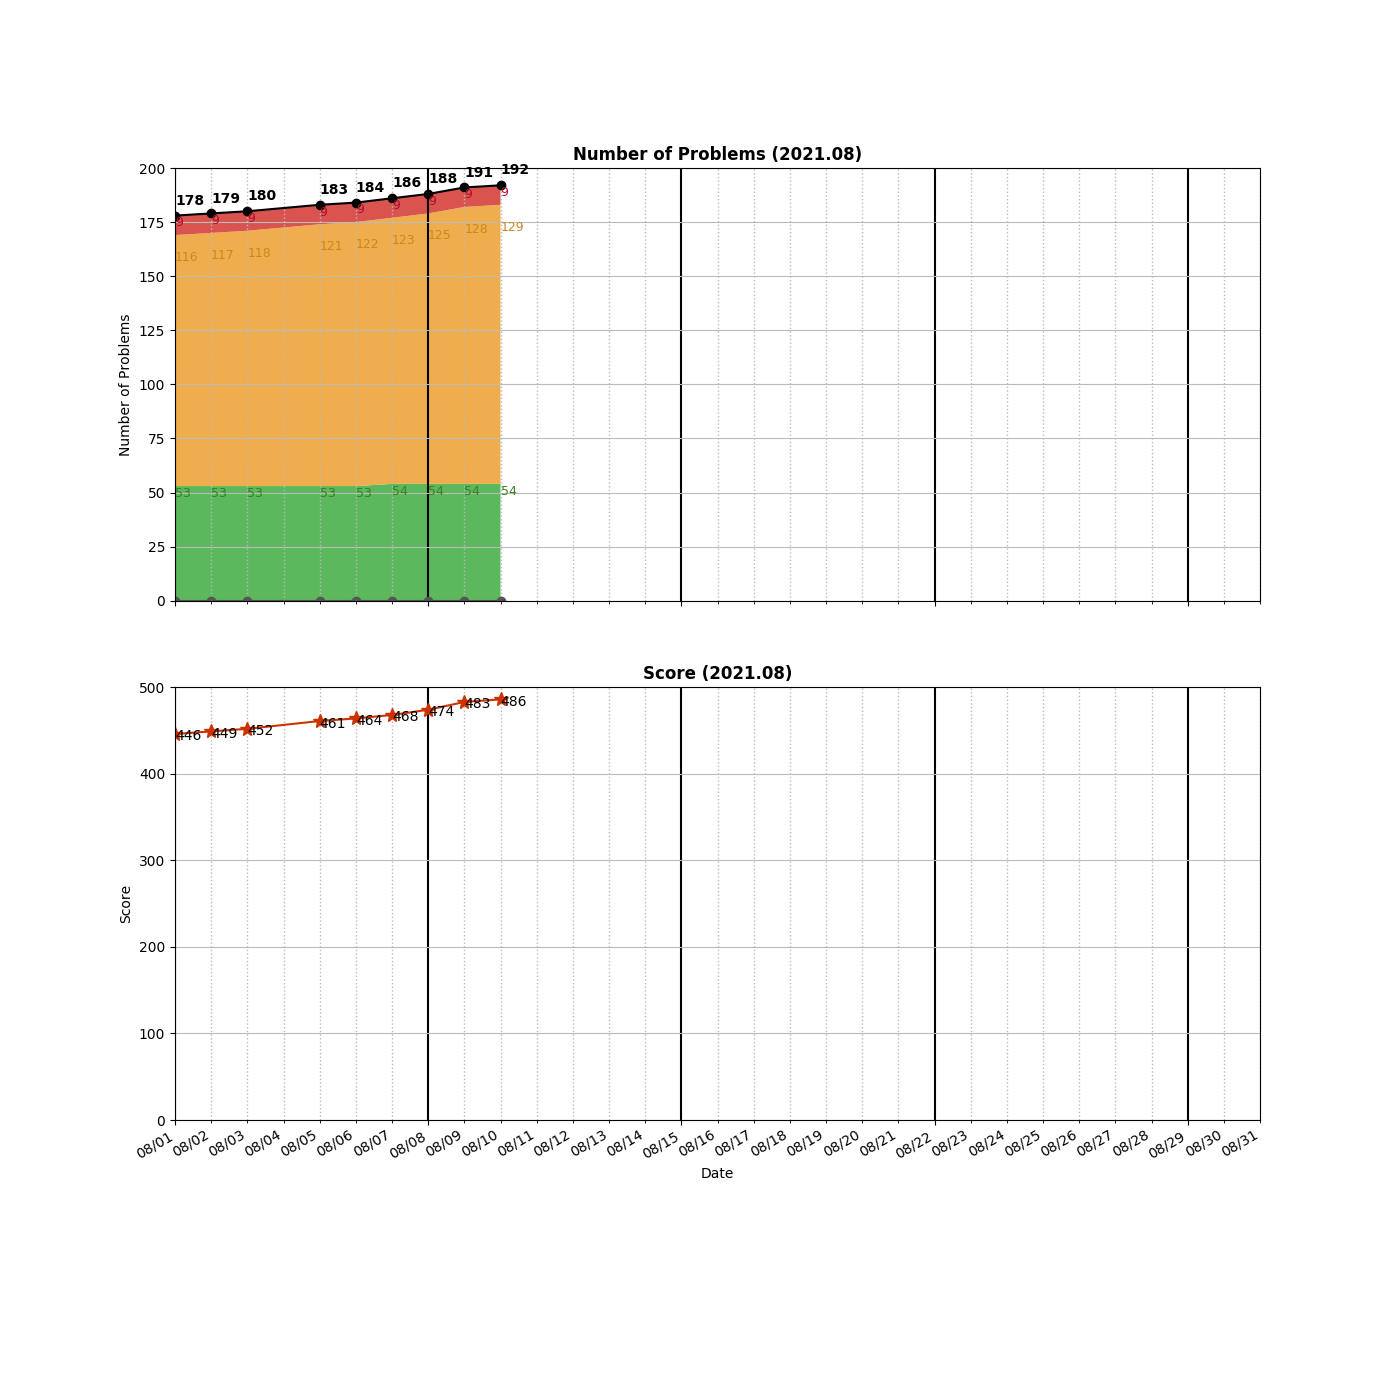
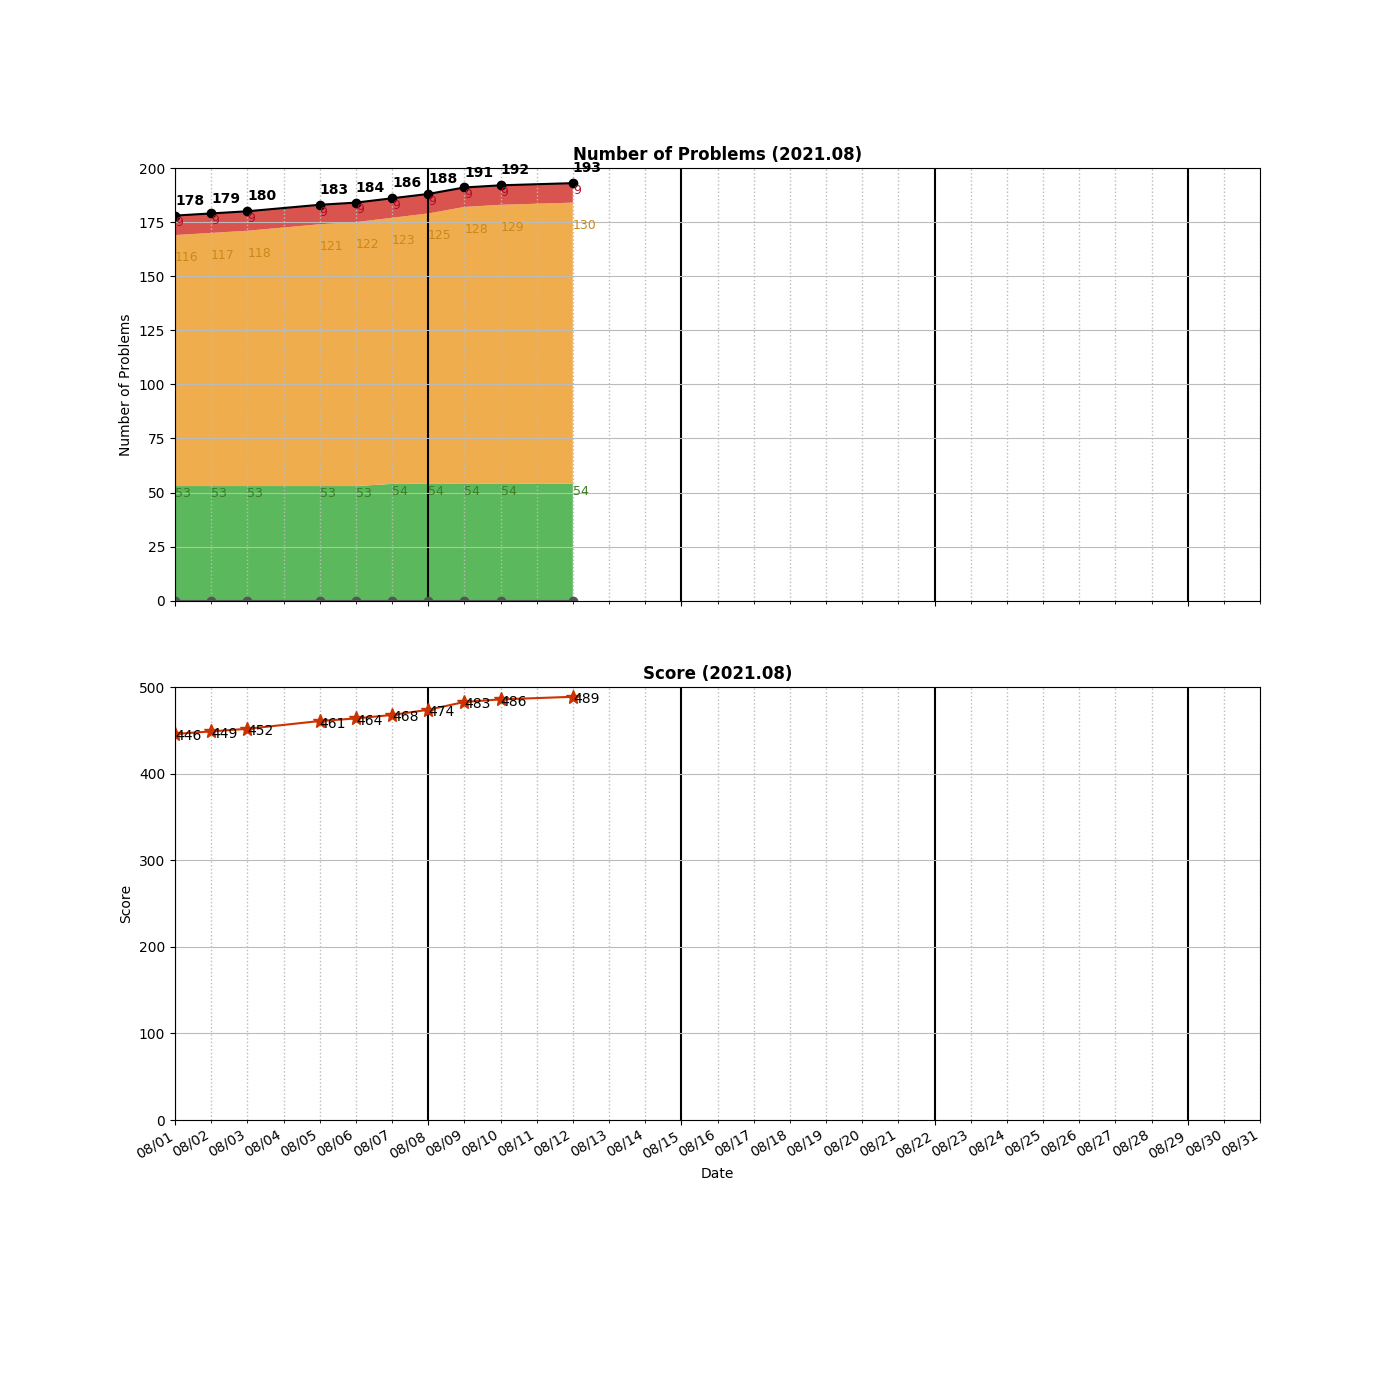
Added __0494__Target Sum.py

Changed region(s): [[0.3379, 0.1229, 0.43, 0.43], [0.3993, 0.4914, 0.43, 0.5221]]

diff --git a/algo/DP/__0494__Target Sum.py b/algo/DP/__0494__Target Sum.py
@@ -1,0 +1,38 @@
+class Solution:
+    #def findTargetSumWays(self, nums: List[int], target: int) -> int:
+        # numsum = sum(nums)
+        # maxVal = target + numsum 
+        # minVal = target - numsum
+        # val = target - minVal 
+        # valLength = numsum * 2 + 1 
+        # dp = [for i in ]
+        
+    def findTargetSumWays(self, nums: List[int], target: int) -> int:
+        self.total = 0
+        memo = {}
+        #a = self.helper(nums, -target + nums[0], 0, memo, "+" + str(nums[0]))
+        #b = self.helper(nums, -target - nums[0], 0, memo, "-" + str(nums[0]))
+        return self.helper(nums, -target, -1, memo)
+    
+    def helper(self, nums, target, idx, memo):
+        #print(target, idx, exp)
+        if idx == len(nums) - 1:
+            if target == 0:
+                #print(">> ", exp)
+                return 1 
+            else:
+                return 0
+        if idx >= len(nums):
+            return 0 
+        if (target, idx) in memo:
+            return memo[(target, idx)]
+    
+        count = 0
+        #for i in range(idx+1, len(nums)):
+        i = idx + 1 
+        #count += self.helper(nums, target + nums[i], i , memo, exp + "+" + str(nums[i]))
+        #count += self.helper(nums, target - nums[i], i , memo, exp + "-" + str(nums[i]))
+        count += self.helper(nums, target + nums[i], i , memo)
+        count += self.helper(nums, target - nums[i], i , memo)
+        memo[(target, idx)] = count
+        return count 

diff --git a/README.md b/README.md
@@ -168,6 +168,7 @@ algo
 │   ├── __0416__Partition\ Equal\ Subset\ Sum.py
 │   ├── __0437__Path\ Sum\ III.py
 │   ├── __0450__Delete\ Node\ in\ a\ BST.py
+│   ├── __0494__Target\ Sum.py
 │   ├── __0510__Inorder\ Successor\ in\ BST\ II.py
 │   ├── __0513__Find\ Bottom\ Left\ Tree\ Value.py
 │   ├── __0538__Convert\ BST\ to\ Greater\ Tree.py
@@ -219,7 +220,7 @@ algo
         ├── LinkedList.cpython-37.pyc
         └── UnrolledLinkedList.cpython-37.pyc
 
-21 directories, 197 files
+21 directories, 198 files
 
 =====================================
 ============= Local Repo ============
@@ -360,6 +361,7 @@ __0416__Partition Equal Subset Sum.py
 __0437__Path Sum III.py
 __0450__Delete Node in a BST.py
 __0459__Repeated Substring Pattern.py
+__0494__Target Sum.py
 __0510__Inorder Successor in BST II.py
 __0513__Find Bottom Left Tree Value.py
 __0515__Find Largest Value in Each Tree Row.py
@@ -413,7 +415,7 @@ __1593__Split a String Into the Max Number of Unique Substrings.py
 __1711__Count Good Meals.py
 __1905__Count Sub Islands.py
 =====================================
-Num of Python Practice:  188
+Num of Python Practice:  189
 
 
 =====================================
@@ -557,6 +559,7 @@ Num of Python Practice:  188
  0437 Path Sum III
  0450 Delete Node in a BST
  0459 Repeated Substring Pattern
+ 0494 Target Sum
  0510 Inorder Successor in BST II
  0513 Find Bottom Left Tree Value
  0515 Find Largest Value in Each Tree Row
@@ -613,10 +616,10 @@ Num of Python Practice:  188
  1905 Count Sub Islands
 =====================================
 Solved / Total (Easy)  :   54 /  509
-Solved / Total (Medium):  129 / 1039
+Solved / Total (Medium):  130 / 1040
 Solved / Total (Hard)  :    9 /  417
-Solved / Total (All)   :  192 / 1965
-Total Score            :  486
+Solved / Total (All)   :  193 / 1966
+Total Score            :  489
 =====================================
 
 ```
